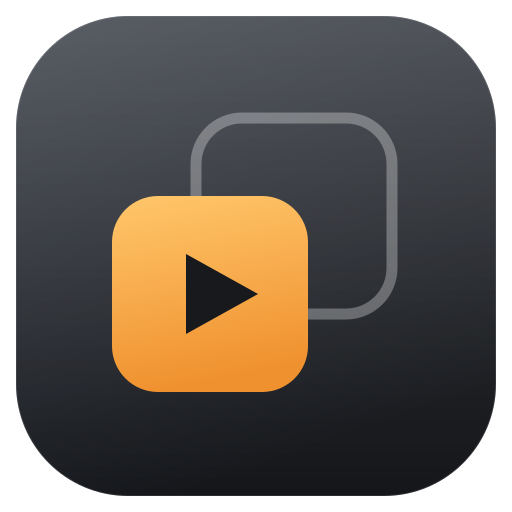
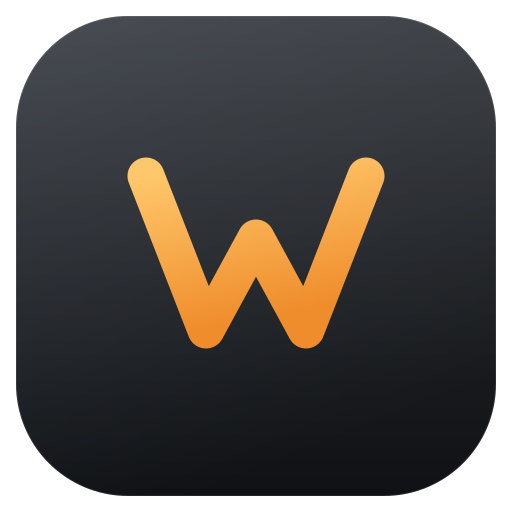
图标改成 W 字标；标题栏右上补上搜索与当前页操作
- 图标：去掉像播放器的三角，换成琥珀色 W 字标（深灰圆角底 + 顶部高光），
  512 PNG 由 SVG 用 rsvg-convert 生成，小尺寸也认得出
- 标题栏：高度 48，左边红绿灯、中间窗口名，右边按 macOS 工具栏的位置放
  搜索框 + 当前页主操作（应用页「添加应用」、进程页「刷新」）
- 页面里不再重复一排工具：标题/副标题下面只留前缀选择，页面自己的次要操作
  （更新运行器、运行命令、结束全部进程）排在右侧
- 搜索框变成全局一个，跟着当前页切换，Ctrl+F 仍然聚焦它

Changed region(s): [[0.2188, 0.2188, 0.7812, 0.7812]]

diff --git a/qml/Main.qml b/qml/Main.qml
@@ -505,7 +505,7 @@ ApplicationWindow {
 
     // ── 标题栏：左边红绿灯，中间页面名 ──────────────────────
     header: Rectangle {
-        height: 44
+        height: 48
         color: root.configureMode ? c.window : c.sidebar
 
         MouseArea {
@@ -559,6 +559,42 @@ ApplicationWindow {
             font.weight: Font.DemiBold
             color: c.text
             opacity: 0.8
+        }
+
+        // 右上角：搜索 + 当前页面的主操作（macOS 工具栏的位置）
+        RowLayout {
+            visible: !root.configureMode
+            anchors.right: parent.right
+            anchors.rightMargin: 12
+            anchors.verticalCenter: parent.verticalCenter
+            spacing: 8
+
+            WSearchField {
+                id: pageSearchField
+                Layout.preferredWidth: 200
+                implicitHeight: 28
+                placeholderText: root.searchHints[root.currentPage]
+                text: root.searchValues[root.currentPage]
+                onTextEdited: {
+                    var copy = root.searchValues.slice()
+                    copy[root.currentPage] = text
+                    root.searchValues = copy
+                }
+            }
+
+            WAccentButton {
+                visible: root.currentPage === 0
+                implicitHeight: 28
+                text: root.zh ? "添加应用" : "Add App"
+                onClicked: backend.new_config(root.appsPrefix)
+            }
+            WButton {
+                visible: root.currentPage === 2
+                outlined: true
+                implicitHeight: 28
+                text: root.zh ? "刷新" : "Refresh"
+                onClicked: root.refreshCurrent()
+            }
         }
 
         Rectangle {
@@ -698,7 +734,6 @@ ApplicationWindow {
     // ── 页面骨架 ────────────────────────────────────────────
     component PageHeader: Item {
         implicitHeight: headLayout.implicitHeight
-        default property alias actions: actionsRow.data
         ColumnLayout {
             id: headLayout
             anchors.left: parent.left
@@ -716,7 +751,6 @@ ApplicationWindow {
                     font.letterSpacing: -0.4
                 }
                 Item { Layout.fillWidth: true }
-                RowLayout { id: actionsRow; spacing: 8 }
             }
             Text {
                 text: root.pageSubtitles[root.currentPage]
@@ -730,20 +764,11 @@ ApplicationWindow {
     }
 
     component PageToolbar: RowLayout {
+        default property alias trailing: trailingRow.data
         spacing: 8
         PrefixPicker {}
-        WSearchField {
-            id: pageSearchField
-            Layout.preferredWidth: 220
-            placeholderText: root.searchHints[root.currentPage]
-            text: root.searchValues[root.currentPage]
-            onTextEdited: {
-                var copy = root.searchValues.slice()
-                copy[root.currentPage] = text
-                root.searchValues = copy
-            }
-        }
         Item { Layout.fillWidth: true }
+        RowLayout { id: trailingRow; spacing: 8 }
     }
 
     // 分组列表：一个圆角容器装所有行
@@ -855,12 +880,10 @@ ApplicationWindow {
             anchors.margins: 24
             spacing: 16
 
-            PageHeader {
+            PageHeader { Layout.fillWidth: true }
+
+            PageToolbar {
                 Layout.fillWidth: true
-                WAccentButton {
-                    text: root.zh ? "添加应用" : "Add App"
-                    onClicked: backend.new_config(root.appsPrefix)
-                }
                 WAccentButton {
                     visible: backend.update_available
                     text: root.zh ? "更新运行器" : "Update Runners"
@@ -873,8 +896,6 @@ ApplicationWindow {
                         function () { backend.update_runners_now() })
                 }
             }
-
-            PageToolbar { Layout.fillWidth: true }
 
             Item {
                 Layout.fillWidth: true
@@ -1084,21 +1105,23 @@ ApplicationWindow {
             anchors.margins: 24
             spacing: 16
 
-            PageHeader {
+            PageHeader { Layout.fillWidth: true }
+
+            PageToolbar {
                 Layout.fillWidth: true
                 WField {
                     id: customCmd
-                    Layout.preferredWidth: 260
+                    Layout.preferredWidth: 240
+                    implicitHeight: 32
                     placeholderText: root.zh ? "自定义命令，如 steam" : "Custom command, e.g. steam"
                     onAccepted: launchCustom()
                 }
                 WAccentButton {
+                    implicitHeight: 32
                     text: root.zh ? "运行命令" : "Run"
                     onClicked: launchCustom()
                 }
             }
-
-            PageToolbar { Layout.fillWidth: true }
 
             Item {
                 Layout.fillWidth: true
@@ -1183,19 +1206,15 @@ ApplicationWindow {
             anchors.margins: 24
             spacing: 16
 
-            PageHeader {
+            PageHeader { Layout.fillWidth: true }
+
+            PageToolbar {
                 Layout.fillWidth: true
-                WButton {
-                    text: root.zh ? "刷新" : "Refresh"
-                    onClicked: root.refreshCurrent()
-                }
                 WDangerButton {
                     text: root.zh ? "结束全部进程" : "Close All"
                     onClicked: backend.kill_all_processes(root.procsPrefix)
                 }
             }
-
-            PageToolbar { Layout.fillWidth: true }
 
             Item {
                 Layout.fillWidth: true
